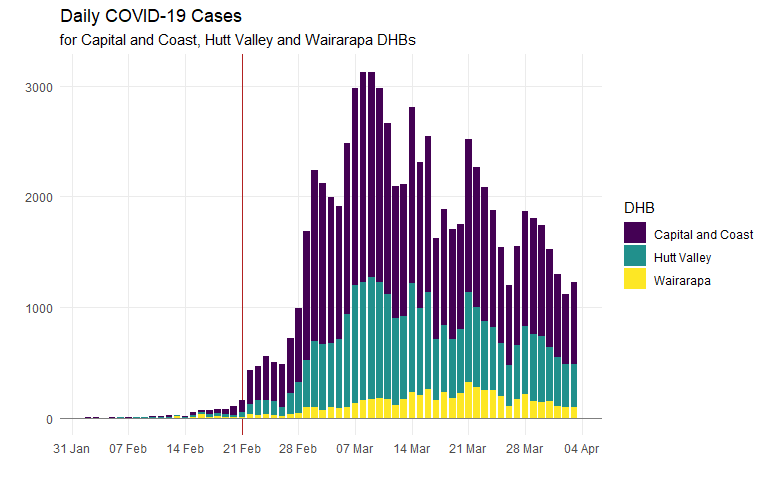
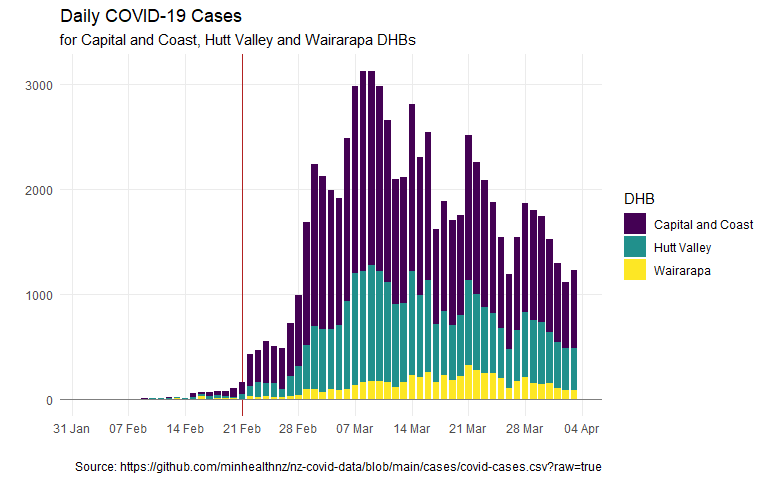
Add source info to captions

diff --git a/covid-time-series.md b/covid-time-series.md
@@ -85,7 +85,8 @@ dhb_cases_df %>%
   scale_x_date(date_breaks = "1 week", date_labels = "%d %b") +
   scale_fill_viridis_d(option = "D", guide = guide_legend(title = "DHB")) +
   labs(x = "", y= "", title = "Daily COVID-19 Cases",
-       subtitle = str_glue("for {dhb_names_label} DHBs")) +
+       subtitle = str_glue("for {dhb_names_label} DHBs"),
+       caption = str_glue("Source: {case_data_url}")) +
   theme_minimal() +
   theme(panel.grid.minor = element_blank())
 ```
@@ -133,9 +134,10 @@ dhb_cases_stl_df %>%
   geom_point(aes(x = report_date, y = cases)) +
   scale_x_date(date_breaks = "1 week", date_labels = "%d %b") +
   scale_y_continuous(limits = c(0, NA)) +
-  labs(x = "", y= "", title = "Total daily COVID-19 Cases (with seasonal adjustment and trend)",
-       subtitle = str_glue("for {dhb_names_label} DHBs"),
-       caption = "Red line: cases adjusted for weekly pattern. Blue line: trend component") +
+  labs(x = "", y= "", title = "Total daily COVID-19 Cases",
+       subtitle = str_glue("For {dhb_names_label} DHBs\n", 
+                           "Red line: cases adjusted for weekly pattern. Blue line: trend component."),
+       caption = str_glue("Source: {case_data_url}")) +
   theme_minimal() +
   theme(panel.grid.minor = element_blank())
 ```
